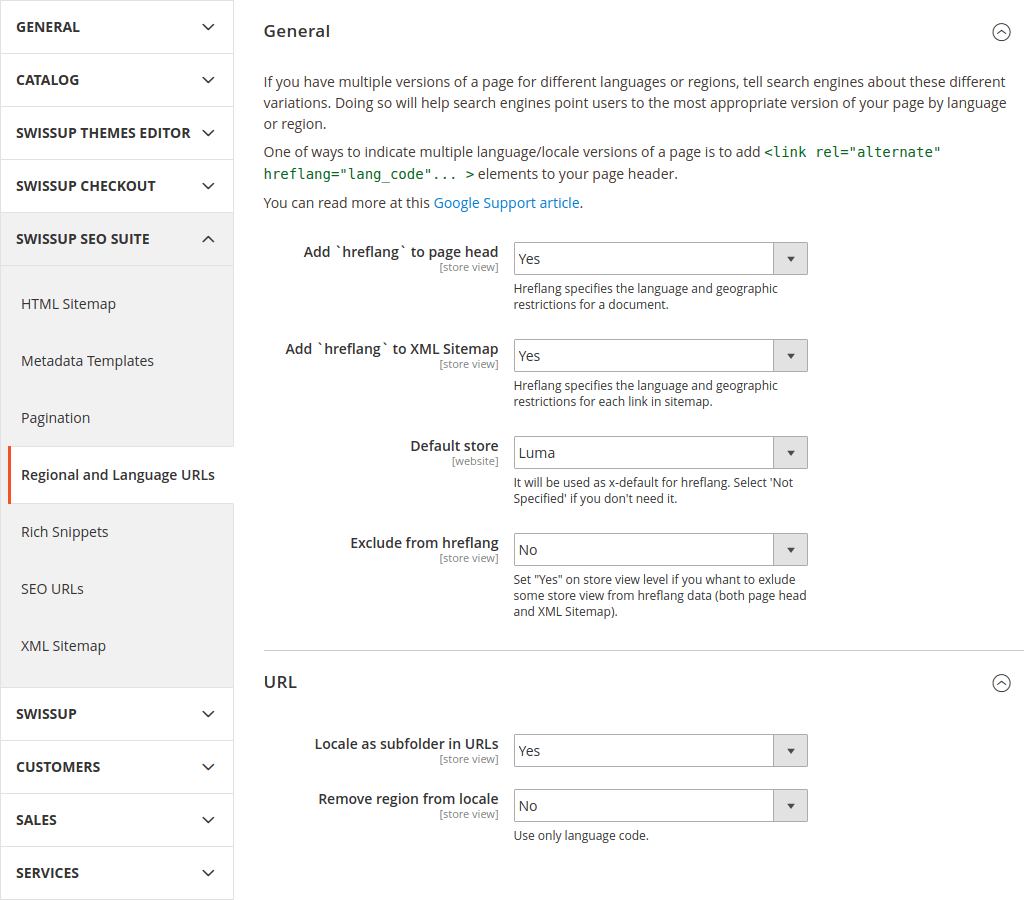
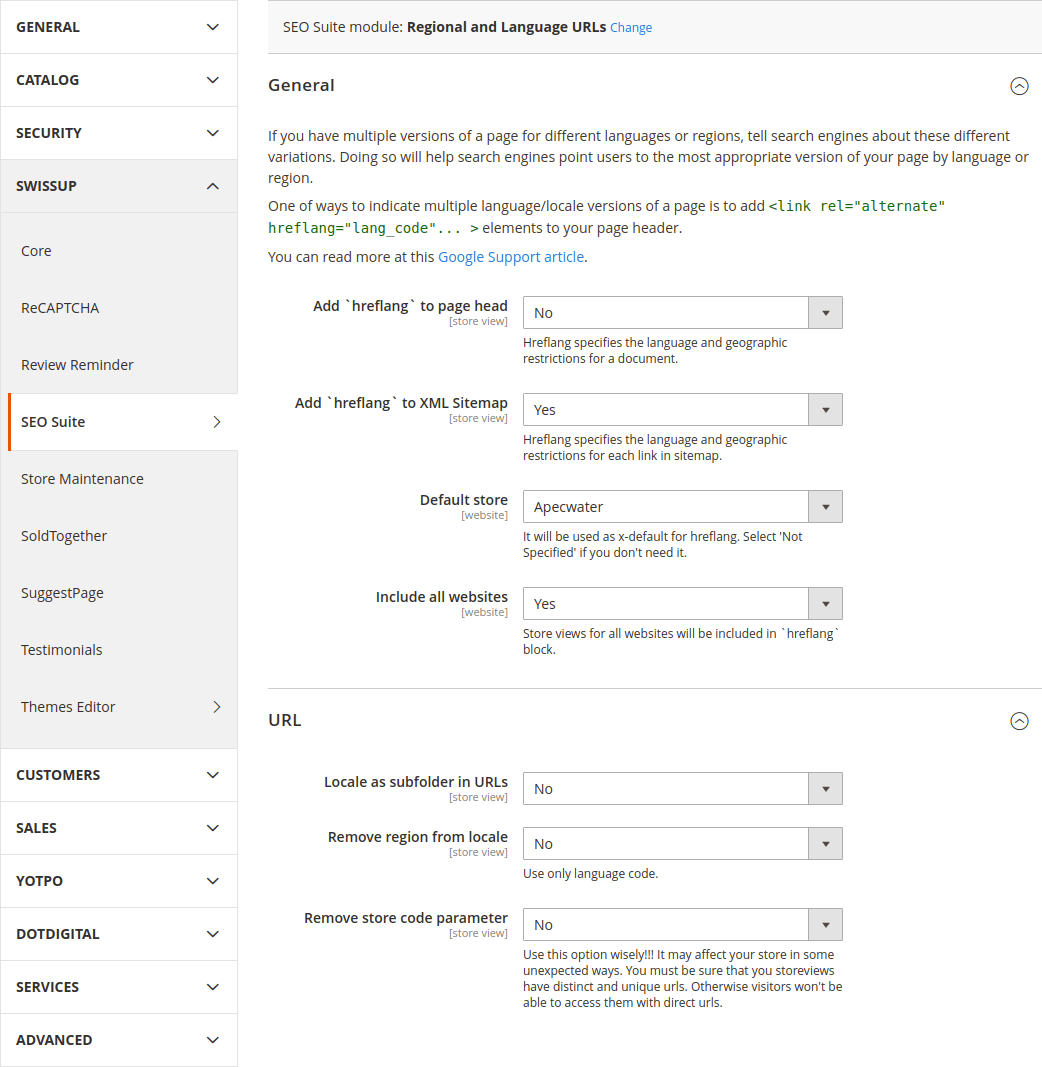
Update SEO Suite modules M2

diff --git a/m2/extensions/richsnippets/changelog.md b/m2/extensions/richsnippets/changelog.md
@@ -8,6 +8,14 @@ category: Rich Snippets
 
 # Changelog
 
+### Version 1.4.12
+
+> Jan 13, 2021
+
+  - Fixed structured data error about review for product at Magento 2.4.x.
+  - SEO Suite modules dropdown over module config at System Configuration.
+  - Convert section "Swissup SEO Suite" into item "SEO Suite" under section "Swissup" at System Config page.
+
 ### Version 1.4.11
 
 > Nov 25, 2020

diff --git a/m2/extensions/seo-cross-links/configuration.md b/m2/extensions/seo-cross-links/configuration.md
@@ -8,7 +8,7 @@ category: Seo CrossLinks
 
 # Configuration
 
-> **Important**: to Enable this module at Your store, navigate to: Stores -> Configuration -> Swissup SEO Suite -> SEO CrossLinks
+> **Important**: to Enable this module at Your store, navigate to: Stores -> Configuration -> Swissup -> SEO Suite -> SEO CrossLinks
 
 ![General settings](/images/m2/seo-cross-links/admin/config.png)
 

diff --git a/m2/extensions/hreflang/configuration.md b/m2/extensions/hreflang/configuration.md
@@ -13,7 +13,7 @@ category: Regional URLs
 {:toc}
 
 You can configure Regional and Language URLs at
-***Stores → Configuration → Swissup SEO Suite → Regional and Language URLs*** page.
+***Stores → Configuration → Swissup → SEO Suite → Regional and Language URLs*** page.
 
 ![Settings](/images/m2/hreflang/config.png)
 

diff --git a/m2/extensions/seo-html-sitemap/configuration.md b/m2/extensions/seo-html-sitemap/configuration.md
@@ -9,7 +9,7 @@ category: SEO HTML Sitemap
 # Configuration
 
 SEO HTML Sitemap configuration is located at
-`Stores > Configuration > Swissup SEO Suite > SEO HTML Sitemap` page.
+`Stores > Configuration > Swissup > SEO Suite > SEO HTML Sitemap` page.
 
 ![HTML Sitemap section](/images/m2/seo-html-sitemap/configuration.png)
 

diff --git a/m2/extensions/seo-templates/configuration.md b/m2/extensions/seo-templates/configuration.md
@@ -13,7 +13,7 @@ category: SEO Metadata Templates
 {:toc}
 
 In order to change general extension settings, go to `Stores` ➔ `Configuration`
-➔ `Swissup SEO Suite` section ➔ `Metadata Templates`.
+➔ `Swissup` section ➔ `SEO Suite` ➔ `Metadata Templates`.
 
 Metadata Templates settings have two sections.
 

diff --git a/m2/extensions/seo-pager/configuration.md b/m2/extensions/seo-pager/configuration.md
@@ -13,7 +13,7 @@ category: Seo Pagination
 {:toc}
 
 You can configure SEO enhancements for paginated content at
-_Stores → Configuration → Swissup SEO Suite → Pagintaion_ page.
+_Stores → Configuration → Swissup → SEO Suite → Pagintaion_ page.
 
 ![Settings](/images/m2/seo-pager/config-v2.png)
 

diff --git a/m2/extensions/seo-xml-sitemap/configuration.md b/m2/extensions/seo-xml-sitemap/configuration.md
@@ -13,7 +13,7 @@ category: SEO XML Sitemap
 {:toc}
 
 You can configure XML Sitemap at
-***Stores → Configuration → Swissup SEO Suite → XML Sitemap*** page.
+***Stores → Configuration → Swissup → SEO Suite → XML Sitemap*** page.
 
 ![Settings](/images/m2/seo-xml-sitemap/config.png)
 

diff --git a/m2/extensions/seo-canonical/configuration.md b/m2/extensions/seo-canonical/configuration.md
@@ -13,7 +13,7 @@ category: Canonical URL
 {:toc}
 
 You can configure SEO enhancements for paginated content at
-_Stores → Configuration → Swissup SEO Suite → Canonical URLs_ page.
+_Stores → Configuration → Swissup → SEO Suite → Canonical URLs_ page.
 
 ### Categories
 

diff --git a/m2/extensions/seo-images/configuration.md b/m2/extensions/seo-images/configuration.md
@@ -13,7 +13,7 @@ category: SEO Images
 {:toc}
 
 In order to change module settings, go to `Stores` ➔ `Configuration`
-➔ `Swissup SEO Suite` section ➔ `SEO Images`.
+➔ `Swissup` section → `SEO Suite` ➔ `SEO Images`.
 
 SEO Images settings have three sections.
 

diff --git a/m2/extensions/seo-urls/configuration.md b/m2/extensions/seo-urls/configuration.md
@@ -13,7 +13,7 @@ category: Seo Urls
 {:toc}
 
 You can configure SEO URLs extension at
-_Stores → Configuration → Swissup SEO Suite → Urls_ page.
+_Stores → Configuration → Swissup → SEO Suite → Urls_ page.
 
 ![Settings](/images/m2/seo-urls/config.png)
 
